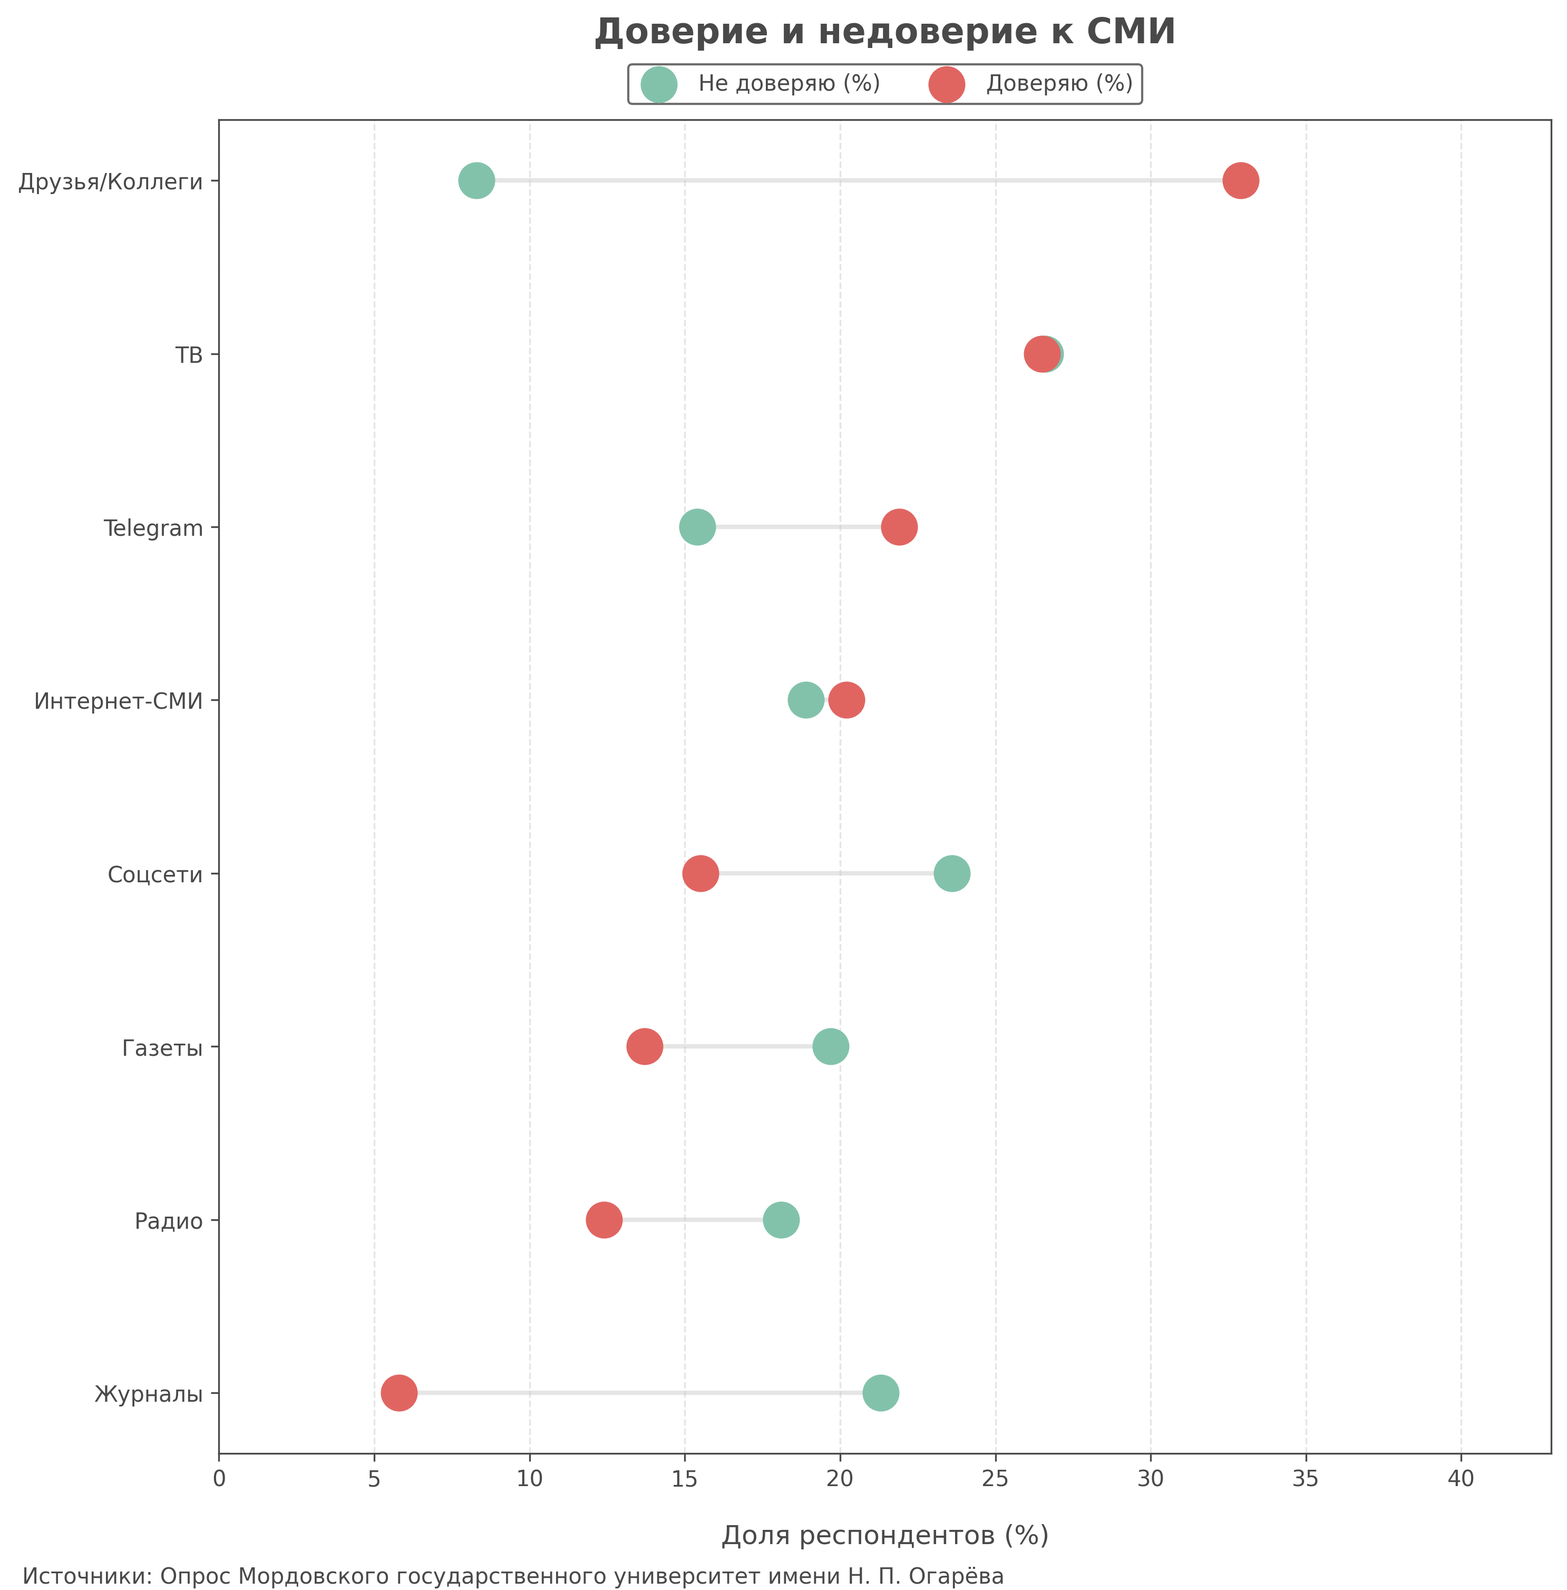
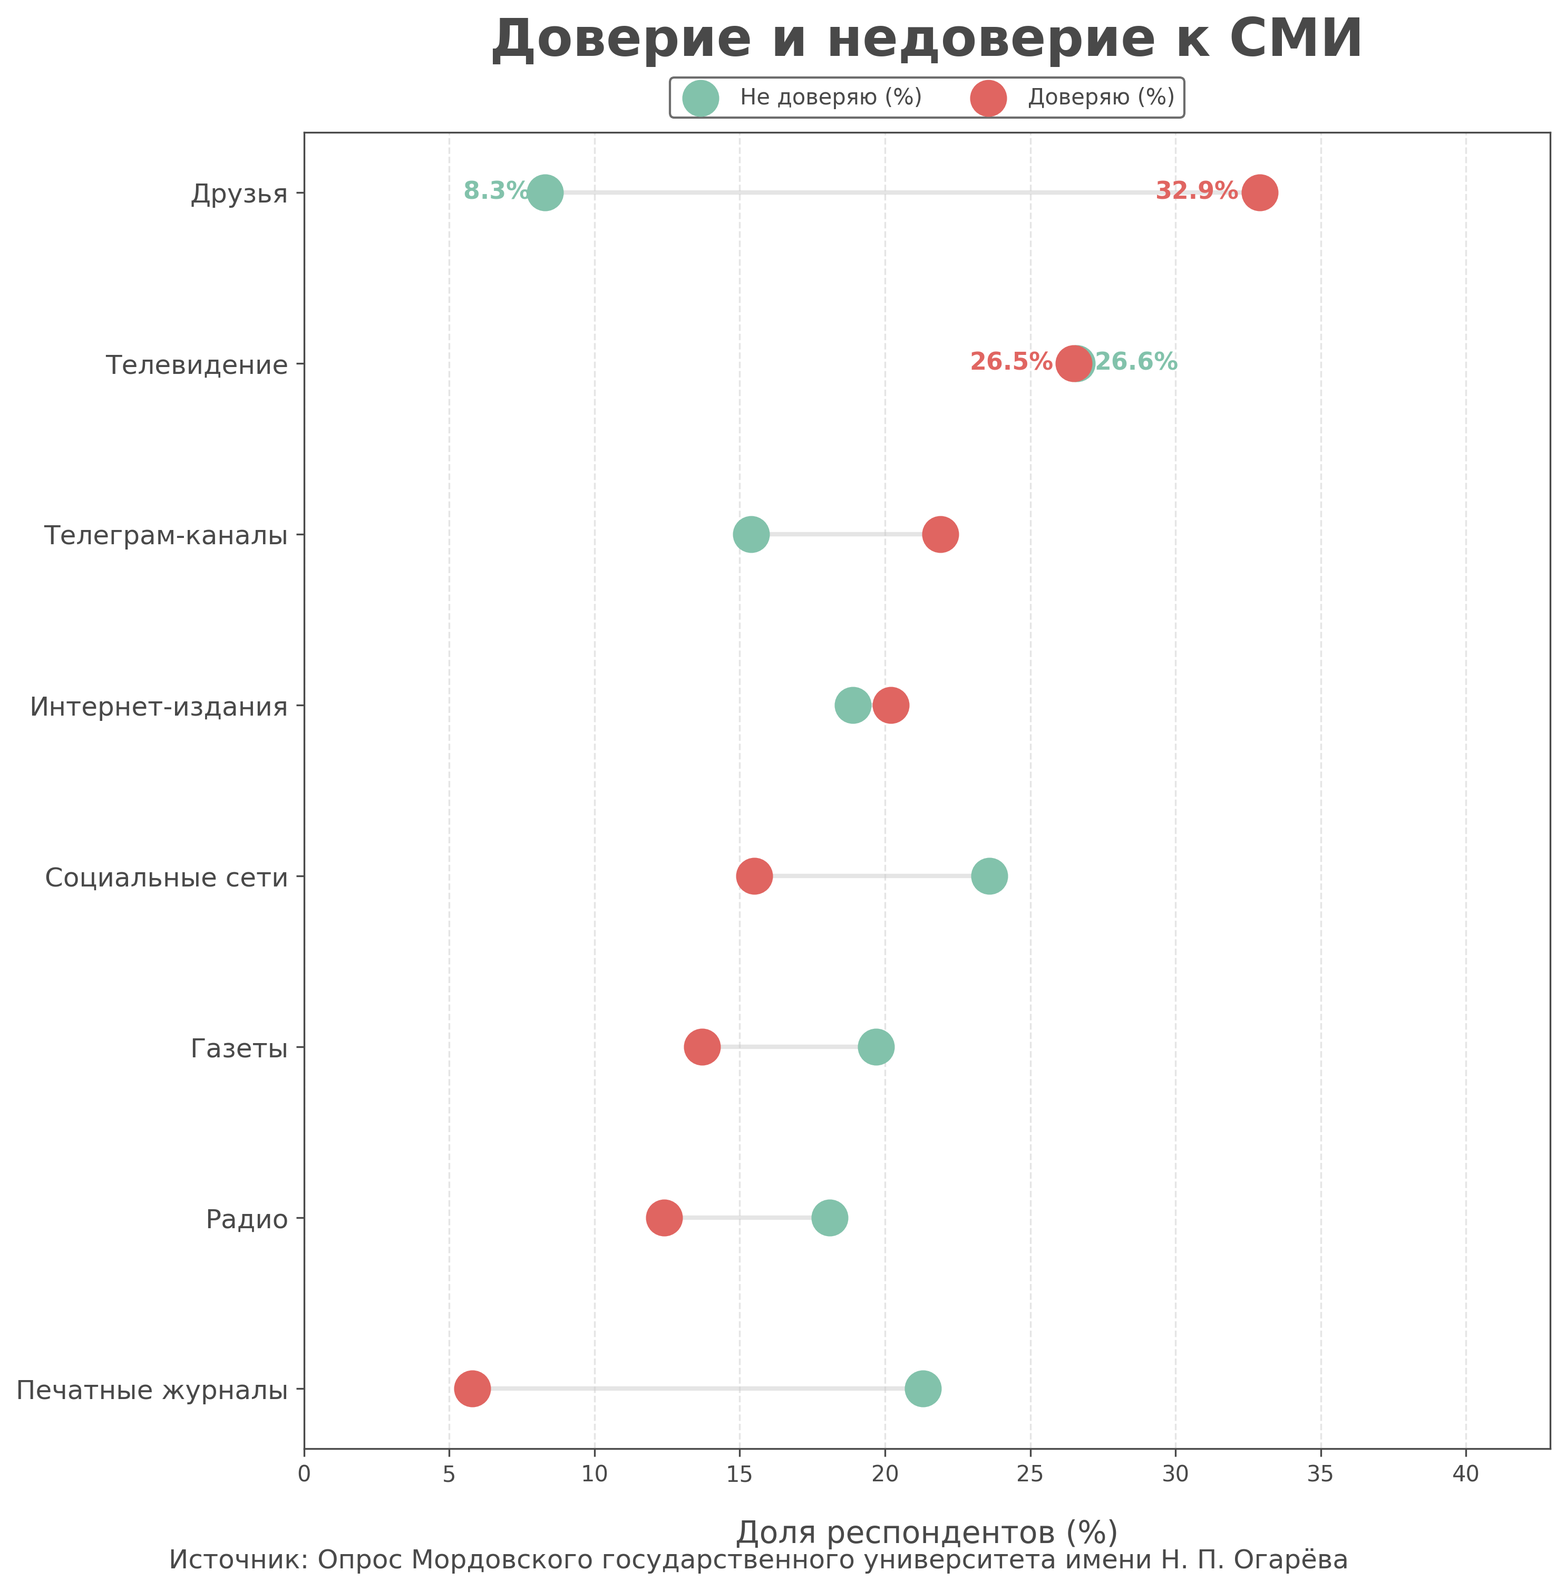
style: change colors and text size

diff --git a/src/graphs/graph8.py b/src/graphs/graph8.py
@@ -39,10 +39,10 @@ def run() -> None:
         "[Объединенный] Телевидение": "Телевидение",
         "[Объединенный] Социальные сети": "Социальные сети",
         "[Объединенный] Интернет-издания": "Интернет-издания",
-        "[Объединенный] Друзья": "Друзья, знакомые, родственники",
+        "[Объединенный] Друзья": "Друзья",
         "[Объединенный] Газеты": "Печатные газеты",
         "[Объединенный] Журналы": "Печатные журналы",
-        "[Объединенный] Телеграм-каналы": "Telegram-каналы",
+        "[Объединенный] Телеграм-каналы": "Телеграм-каналы",
         "[Объединенный] Радио": "Радио",
     }
 
@@ -147,10 +147,13 @@ def run() -> None:
         # Plot bubbles
         # Size depends on percentage (scaled for visibility)
         # Reduced overall size for better fit
-        sizes = [(row.Percentage**1.8) * 1.9 for row in group_data.itertuples()]
+        sizes = [(row.Percentage**1.8) * 0.9 for row in group_data.itertuples()]
 
         # Determine colors for highlighting
-        # Highlight social media for 18-24 and TV for 45-54
+        # Green fill for specific combinations like in the photo:
+        # - Социальные сети: 45-54, 65+
+        # - Интернет-издания: 45-54, 65+
+        # - Телевидение: 65+
         face_colors = []
         edge_colors = []
         line_widths = []
@@ -167,8 +170,8 @@ def run() -> None:
                 edge_colors.append("#F0DC58")
                 line_widths.append(3)
             else:
-                face_colors.append(BACKGROUND_COLOR)
-                edge_colors.append(NEON_CYAN)
+                face_colors.append("#82C2AB")  # Green fill
+                edge_colors.append("#82C2AB")
                 line_widths.append(2)
 
         # Scatter plot for this group
@@ -190,9 +193,11 @@ def run() -> None:
             pct = row.Percentage
 
             # Show percentage for: 1) highlighted bubbles (yellow ones), 2) Total column
-            if (age_group == "18-24" and source == "Социальные сети") or (
-                age_group == "45-54" and source == "Телевидение"
-            ) or age_group == "Всего (18-65+)":
+            if (
+                (age_group == "18-24" and source == "Социальные сети")
+                or (age_group == "45-54" and source == "Телевидение")
+                or age_group == "Всего (18-65+)"
+            ):
                 ax.text(
                     x=i,
                     y=y_idx,
@@ -207,10 +212,10 @@ def run() -> None:
 
     # Set ticks and labels
     ax.set_xticks(range(len(x_order)))
-    ax.set_xticklabels(x_order, fontsize=12)
+    ax.set_xticklabels(x_order, fontsize=10)
 
     ax.set_yticks(range(len(y_order)))
-    ax.set_yticklabels(y_order, fontsize=12)
+    ax.set_yticklabels(y_order, fontsize=10)
 
     # Remove spines
     ax.spines["top"].set_visible(False)
@@ -223,11 +228,11 @@ def run() -> None:
 
     # Title
     # Calculate key insight: Which source is most popular overall?
-    title_text = "Самые востребованные источники информации по возрасту."
+    title_text = "Самые востребованные источники\n информации по возрасту."
 
     plt.title(
         title_text,
-        fontsize=16,
+        fontsize=24,
         pad=30,
         color=TEXT_COLOR,
         loc="center",
@@ -235,21 +240,21 @@ def run() -> None:
     )
 
     # Adjust layout with proper margins to prevent cutoff
-    plt.subplots_adjust(left=0.25, right=0.95, top=0.88, bottom=0.08)
+    plt.subplots_adjust(left=0.18, right=0.95, top=0.88, bottom=0.08)
 
     # Add footer
     plt.annotate(
-        "Источник: Опрос Мордовского государственного университет имени Н. П. Огарёва",
+        "Источник: Опрос Мордовского государственного университета имени Н. П. Огарёва",
         xy=(0, 0),
         xycoords="figure points",
-        fontsize=10,
+        fontsize=12,
         color="#494949",
-        xytext=(10, 3),
+        xytext=(150, 5),
     )
 
     # Save
     output_path = OUTPUT_DIR / "graph8.png"
-    plt.savefig(output_path, dpi=300, bbox_inches="tight")
+    plt.savefig(output_path, dpi=300)
     plt.close()
 
     logger.success(f"Graph 8 saved to: {output_path}")

diff --git a/src/graphs/graph12.py b/src/graphs/graph12.py
@@ -22,14 +22,14 @@ def run() -> None:
 
     # Columns mapping
     channels = [
-        ("[Объединенный] Телевидение", "ТВ"),
-        ("[Объединенный] Интернет-издания", "Интернет-СМИ"),
-        ("[Объединенный] Социальные сети", "Соцсети"),
-        ("[Объединенный] Друзья", "Друзья/Коллеги"),
+        ("[Объединенный] Телевидение", "Телевидение"),
+        ("[Объединенный] Интернет-издания", "Интернет-издания"),
+        ("[Объединенный] Социальные сети", "Социальные сети"),
+        ("[Объединенный] Друзья", "Друзья"),
         ("[Объединенный] Газеты", "Газеты"),
         ("[Объединенный] Радио", "Радио"),
-        ("[Объединенный] Журналы", "Журналы"),
-        ("[Объединенный] Телеграм-каналы", "Telegram"),
+        ("[Объединенный] Журналы", "Печатные журналы"),
+        ("[Объединенный] Телеграм-каналы", "Телеграм-каналы"),
     ]
 
     for col, label in channels:
@@ -82,14 +82,14 @@ def run() -> None:
 
     plt.title(
         "Доверие и недоверие к СМИ",
-        fontsize=16,
+        fontsize=24,
         pad=35,
         color="#494949",
         loc="center",
         fontweight="bold",
     )
 
-    plt.xlabel("Доля респондентов (%)", fontsize=12, labelpad=15)
+    plt.xlabel("Доля респондентов (%)", fontsize=14, labelpad=15)
     plt.xlim(
         0, max(res_df["trust"].max(), res_df["distrust"].max()) + 10
     )  # Add some padding
@@ -102,20 +102,76 @@ def run() -> None:
         facecolor="#FFFFFF",
         edgecolor="#494949",
     )
+
+    # Increase Y-axis tick labels size
+    plt.tick_params(axis="y", labelsize=12)
+
     plt.grid(axis="x", color="#CCCCCC", alpha=0.5, linestyle="--")
     plt.tight_layout()
 
     output_path = OUTPUT_DIR / "graph12.png"
     plt.savefig(output_path, dpi=300, bbox_inches="tight")
 
+    # Add percentage labels for Телевидение and Друзья  # noqa: RUF003
+    for _, row in res_df.iterrows():
+        if row["channel"] == "Телевидение":
+            y_pos = row["channel"]
+            # Телевидение - Distrust (green/cyan) # noqa: RUF003
+            plt.text(
+                row["distrust"] + 3.5,
+                y_pos,
+                f"{row['distrust']:.1f}%",
+                fontsize=11,
+                va="center",
+                ha="right",
+                color=DISTRUST_COLOR,
+                fontweight="bold",
+            )
+            # Телевидение - Trust (red) # noqa: RUF003
+            plt.text(
+                row["trust"] - 0.7,
+                y_pos,
+                f"{row['trust']:.1f}%",
+                fontsize=11,
+                va="center",
+                ha="right",
+                color=TRUST_COLOR,
+                fontweight="bold",
+            )
+        if row["channel"] == "Друзья":
+            y_pos = row["channel"]
+            # Друзья - Distrust (green/cyan)
+            plt.text(
+                row["distrust"] - 3.1,
+                y_pos,
+                f" {row['distrust']:.1f}%",
+                fontsize=11,
+                va="center",
+                ha="left",
+                color=DISTRUST_COLOR,
+                fontweight="bold",
+            )
+            # Друзья - Trust (red)
+            plt.text(
+                row["trust"] - 0.7,
+                y_pos,
+                f"{row['trust']:.1f}%",
+                fontsize=11,
+                va="center",
+                ha="right",
+                color=TRUST_COLOR,
+                fontweight="bold",
+            )
+
     # Add footer
     plt.annotate(
-        "Источники: Опрос Мордовского государственного университет имени Н. П. Огарёва",
-        xy=(0, 0),
-        xycoords="figure points",
-        fontsize=10,
+        "Источник: Опрос Мордовского государственного университета имени Н. П. Огарёва",
+        xy=(0.48, 0.0208),
+        xycoords="figure fraction",
+        fontsize=12,
         color="#494949",
-        xytext=(10, 3),
+        ha="center",
+        va="top",
     )
     plt.savefig(output_path, dpi=300, bbox_inches="tight")
     plt.close()

diff --git a/src/graphs/graph11.py b/src/graphs/graph11.py
@@ -57,14 +57,14 @@ def run() -> None:
         "Затрудняюсь ответить",
     ]
 
-    # Colors (New color scheme)
+    # Colors (Red and Yellow highlighted, others muted/transparent)
     colors = {
-        "Ежедневно": "#E06561",  # Red
-        "По несколько раз в неделю": "#F0DC58",  # Yellow
-        "По несколько раз в месяц": "#77B96E",  # Green
-        "По несколько раз в год": "#82C2AB",  # Cyan
-        "Не сталкивался": "#81A6DF",  # Blue
-        "Затрудняюсь ответить": "#999999",  # Lighter gray
+        "Ежедневно": "#E06561",  # Red - bright
+        "По несколько раз в неделю": "#F0DC58",  # Yellow - bright
+        "По несколько раз в месяц": "#b7f2aa",  # Green
+        "По несколько раз в год": "#9edbdb",  # Cyan
+        "Не сталкивался": "#7d99b5",  # Blue
+        "Затрудняюсь ответить": "#9e9d9d",  # Gray
     }
 
     data_rows = []
@@ -137,6 +137,8 @@ def run() -> None:
     # Add traces in stack order
     for cat in stack_order:
         values = plot_df[cat]
+        opacity = 1.0 if cat in ["Ежедневно", "По несколько раз в неделю"] else 0.4
+
         fig.add_trace(
             go.Bar(
                 y=plot_df["Source"],
@@ -144,6 +146,7 @@ def run() -> None:
                 name=cat,
                 orientation="h",
                 marker_color=colors[cat],
+                marker_opacity=opacity,
                 text=values.apply(lambda x: f"{x:.0f}%" if x > 3 else ""),
                 textposition="auto",
                 hovertemplate=f"<b>{cat}</b><br>%{{y}}: %{{x:.1f}}%<extra></extra>",
@@ -155,12 +158,13 @@ def run() -> None:
 
     fig.update_layout(
         title={
-            "text": "Чистота взаимодействия с фейковыми новостями",
+            "text": "Частота взаимодействия с фейковыми новостями",
             "x": 0.5,
             "xanchor": "center",
-            "y": 0.98,
+            "y": 0.99,
             "yanchor": "top",
-            "font": {"size": 18, "color": "#494949"},
+            "font": {"size": 28, "color": "#494949", "weight": "bold"},
+            "pad": {"t": 5, "b": 10},
         },
         barmode="stack",  # Standard stacked bar
         xaxis={
@@ -169,7 +173,7 @@ def run() -> None:
             "ticktext": ["0%", "20%", "40%", "60%", "80%", "100%"],
             "gridcolor": "#CCCCCC",
             "zeroline": False,
-            "tickfont": {"size": 12, "color": "#494949"},
+            "tickfont": {"size": 18, "color": "#494949"},
             "range": [0, 100],  # Force 0-100 scale
         },
         yaxis={
@@ -179,31 +183,31 @@ def run() -> None:
         legend={
             "orientation": "h",
             "yanchor": "bottom",
-            "y": 1.05,
+            "y": 1.02,
             "xanchor": "center",
             "x": 0.5,
-            "font": {"color": "#494949", "size": 12},
+            "font": {"color": "#494949", "size": 18},
             "bgcolor": "rgba(255,255,255,0)",
             # Reverse legend order to match visual stacking (Left-to-Right)
             "traceorder": "normal",
         },
         paper_bgcolor="#FFFFFF",  # White background
         plot_bgcolor="#FFFFFF",
-        margin={"l": 120, "r": 50, "t": 120, "b": 80},
+        margin={"l": 120, "r": 50, "t": 180, "b": 80},
         height=900,
         width=1000,
     )
 
     # Add footer
     fig.add_annotation(
-        x=0.45,
+        x=0.5,
         y=-0.06,
         xref="paper",
         yref="paper",
-        text="Источник: Опрос Мордовского государственного университет имени Н. П. Огарёва",
+        text="Источник: Опрос Мордовского государственного университета имени Н. П. Огарёва",
         showarrow=False,
-        font={"size": 12, "color": "#494949"},
-        xanchor="right",
+        font={"size": 18, "color": "#494949"},
+        xanchor="center",
         yanchor="top",
     )
 

diff --git a/src/graphs/graph9.py b/src/graphs/graph9.py
@@ -194,7 +194,7 @@ def run() -> None:
             "xanchor": "center",
             "y": 0.98,
             "yanchor": "top",
-            "font": {"size": 18, "color": "#494949"},
+            "font": {"size": 24, "color": "#494949"},
         },
         font={"size": 14, "color": "#494949"},
         plot_bgcolor="#FFFFFF",
@@ -323,13 +323,13 @@ def run() -> None:
 
     # Add footer
     fig.add_annotation(
-        x=0.6,
+        x=0.85,
         y=-0.08,
         xref="paper",
         yref="paper",
-        text="Источники: Росстат, Опрос Мордовского государственного университет имени Н. П. Огарёва",
+        text="Источники: Росстат, Опрос Мордовского государственного университетa имени Н. П. Огарёва",
         showarrow=False,
-        font={"size": 12, "color": "#494949"},
+        font={"size": 13, "color": "#494949"},
         xanchor="right",
         yanchor="top",
     )

diff --git a/src/graphs/graph10.py b/src/graphs/graph10.py
@@ -304,7 +304,7 @@ def save_dumbbell_plot(
         y=-0.21,
         xref="paper",
         yref="paper",
-        text="Источники: Сборник «Республика Мордовия глазами социологов», Опрос Мордовского государственного университет имени Н. П. Огарёва",
+        text="Источники: Сборник «Республика Мордовия глазами социологов», Опрос Мордовского государственного университета имени Н. П. Огарёва",
         showarrow=False,
         font={"size": 12, "color": "#494949"},
         xanchor="left",

diff --git a/README.md b/README.md
@@ -26,13 +26,7 @@
 
 <br>
 
-[![Четвёртый график](./output/graph10.png)](./src/graphs/graph10.py)
-
-***четвёртый график*** ([исходный код](./src/graphs/graph10.py))
-
-<br>
-
-[![Пятый график](./output/graph11.png)](./src/graphs/graph11.py)
+[![Четвёртый график](./output/graph11.png)](./src/graphs/graph11.py)
 
 ***пятый график*** ([исходный код](./src/graphs/graph11.py))
 
